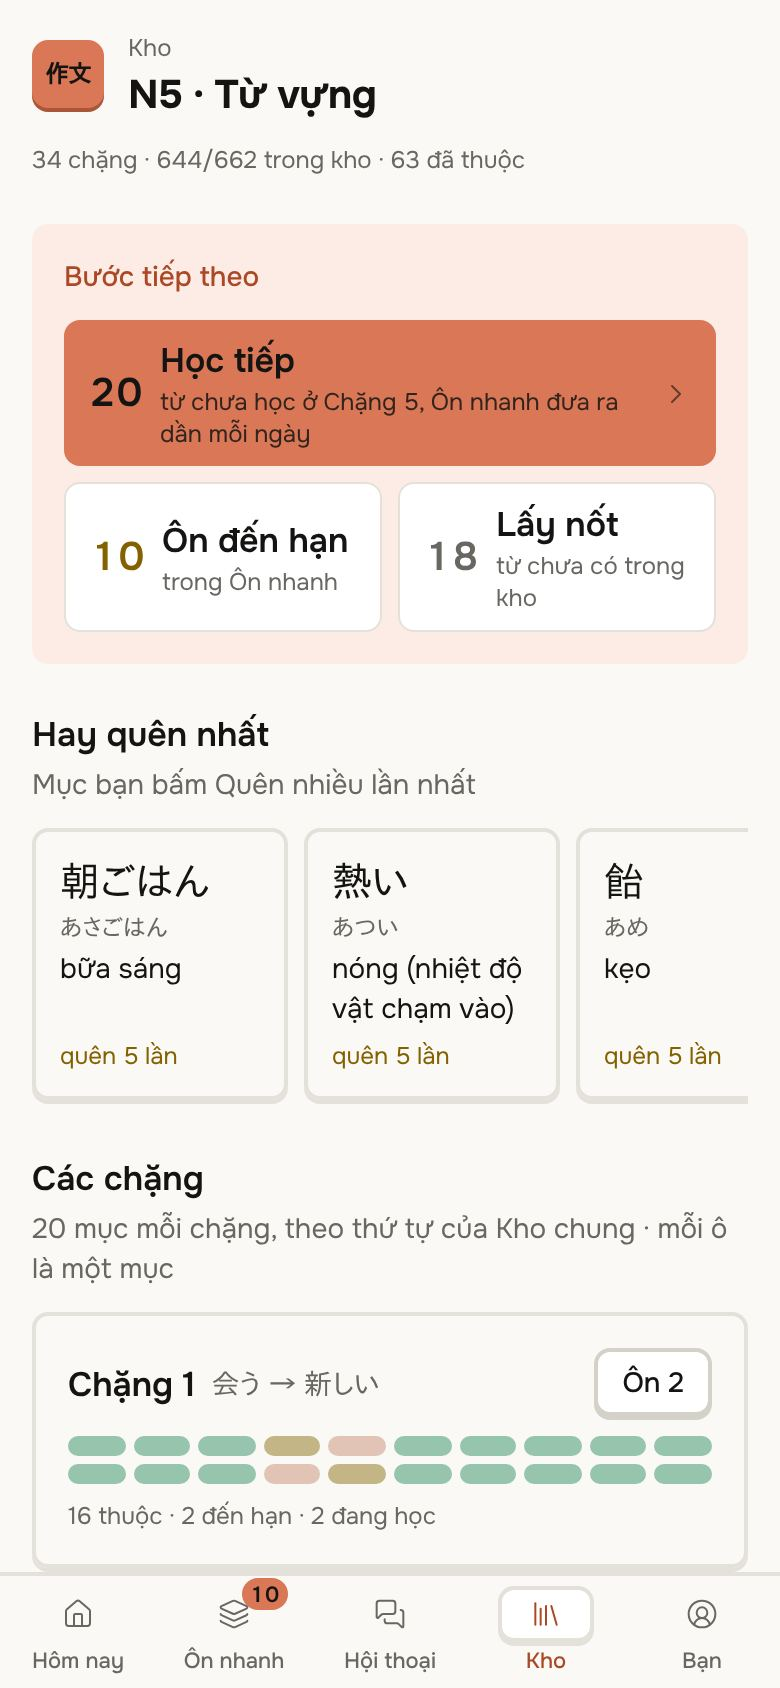
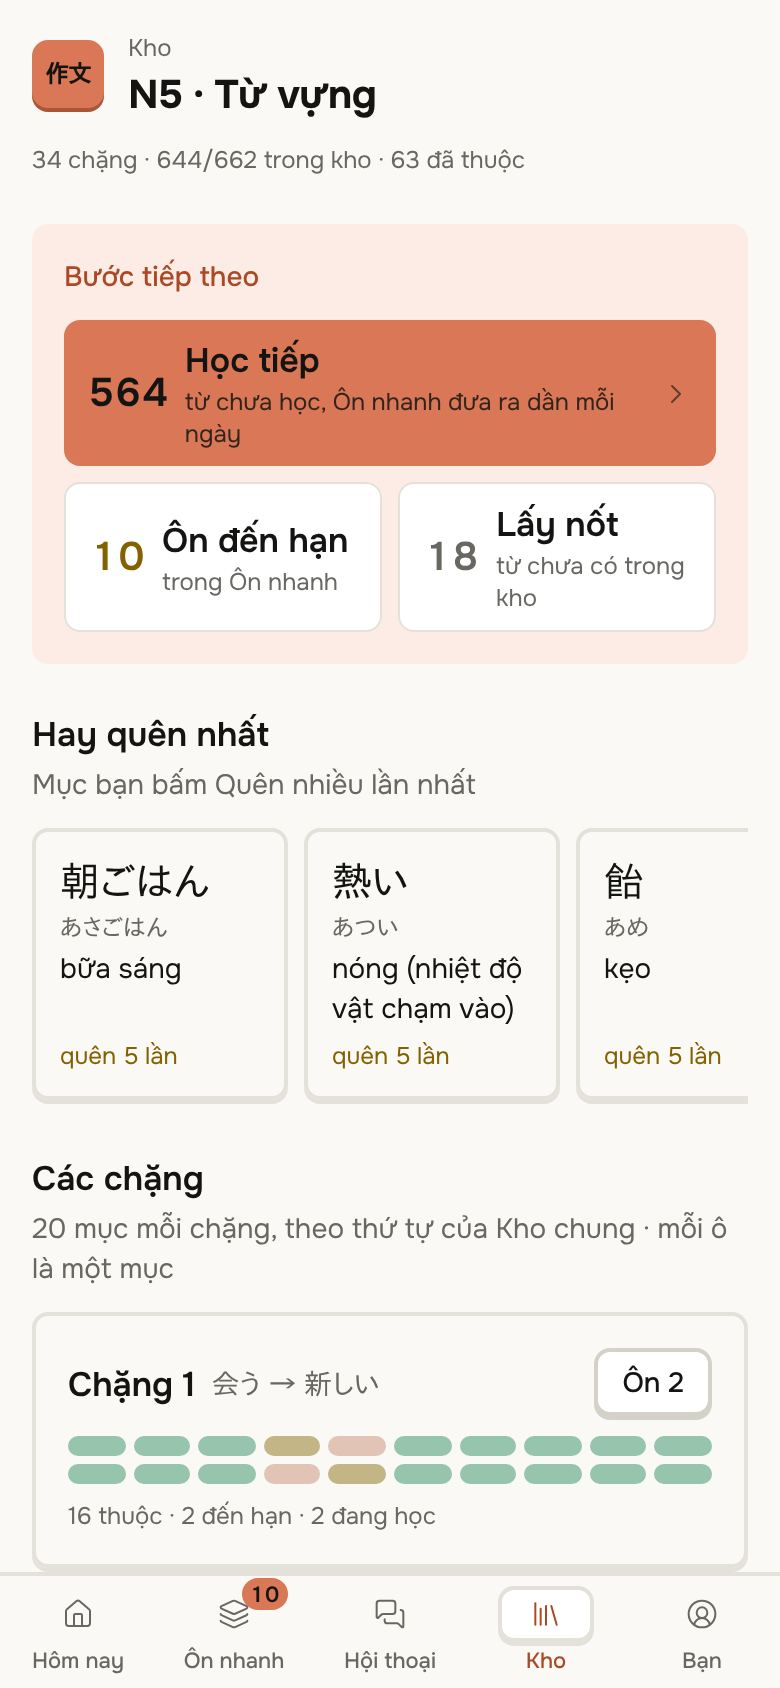
fix(u4c2): honest main action, readable set marks (CodeRabbit)
- Ôn nhanh also serves levels below the study level, in its own mixed
  order: "Học tiếp" now covers easier levels and counts the whole
  level's new words rather than one set.
- "Lấy thêm" replaces "Lấy chặng N" since Kho chung lists the whole level.
- Nothing left to start no longer reads as learnt: "Thuộc cả cấp" only
  when every word is mastered, "Đã học hết" while some are still in
  review, "Chưa có mục" for an empty level.
- Each set mark names its word and state for screen readers and hover.
- The e2e check for the lit menu link is scoped to the sidebar.

Claude-Nick: tnt628

Claude-Session: https://claude.ai/code/session_01LiS5XqjsttK1frQK4s6NyV

Changed region(s): [[0.1231, 0.1848, 0.8, 0.2773]]

diff --git a/lib/library/level-screen.ts b/lib/library/level-screen.ts
@@ -1,10 +1,12 @@
 import type { LevelSet, LevelSets, StateCounts } from '@/lib/library/level-sets';
 import { libraryLevelHref, type BoardLevel } from '@/lib/library/level-tally';
+import { JLPT_LEVELS } from '@/lib/settings/schema';
 
 // What the level screen offers (U4c2, docs/plans/2026-11-14-u4-kho.md): the three actions of
 // "Bước tiếp theo" and each set's button. Pure. New items reach the learner only through Ôn nhanh,
-// which takes them from the level set in Cài đặt, a few a day (lib/app/queue.ts); so "Học" on
-// another level sends the learner to that setting rather than promising what Ôn nhanh won't do.
+// which takes them from the level set in Cài đặt and the levels below it, a few a day
+// (lib/app/queue.ts); so "Học" on a harder level sends the learner to that setting rather than
+// promising what Ôn nhanh won't do.
 
 export type LevelKind = 'grammar' | 'vocab';
 
@@ -56,18 +58,27 @@ export function leadActions(sets: LevelSets, ctx: LevelContext): LeadActions {
   };
 }
 
+// Ôn nhanh takes new items from the study level and, now and then, from the levels below it, in its
+// own mixed order (lib/domain/new-items.ts): so "Học" counts the whole level, never one set.
+function servedByReview(level: string, studyLevel: string): boolean {
+  const at = (l: string) => JLPT_LEVELS.indexOf(l as (typeof JLPT_LEVELS)[number]);
+  return at(level) >= 0 && at(studyLevel) >= 0 && at(level) <= at(studyLevel);
+}
+
 function mainAction(
-  { counts, next }: LevelSets,
+  { sets, counts, mastered, next }: LevelSets,
   ctx: LevelContext,
   unit: string,
   take: string,
 ): LevelAction {
-  if (next?.kind === 'study' && ctx.studyLevel === ctx.level) {
+  if (next?.kind === 'study' && servedByReview(ctx.level, ctx.studyLevel)) {
     return {
       label: 'Học tiếp',
-      // The set's own count, not the level's: the number reads with "Chặng N" beside it.
-      hint: `${unit} chưa học ở Chặng ${next.set}, Ôn nhanh đưa ra dần mỗi ngày`,
-      count: next.count,
+      hint:
+        ctx.level === ctx.studyLevel
+          ? `${unit} chưa học, Ôn nhanh đưa ra dần mỗi ngày`
+          : `${unit} chưa học, Ôn nhanh xen dần vào khi bạn học ${ctx.studyLevel}`,
+      count: counts.new,
       href: REVIEW_HREF,
     };
   }
@@ -80,16 +91,32 @@ function mainAction(
     };
   }
   if (next?.kind === 'take') {
+    // Kho chung lists the whole level; it cannot open on one set.
     return {
-      label: `Lấy chặng ${next.set}`,
-      hint: `${next.count} ${unit} chưa có trong kho`,
-      count: next.count,
+      label: 'Lấy thêm',
+      hint: `${unit} chưa có trong kho, từ Chặng ${next.set}`,
+      count: counts.none,
       href: take,
     };
   }
+  const total = sets.reduce((n, s) => n + s.words.length, 0);
+  if (total === 0)
+    return {
+      label: 'Chưa có mục',
+      hint: 'Kho chung chưa có mục nào ở cấp này',
+      count: null,
+      href: null,
+    };
+  if (mastered === total)
+    return {
+      label: 'Thuộc cả cấp',
+      hint: `Bạn đã thuộc mọi ${unit} của cấp này`,
+      count: null,
+      href: null,
+    };
   return {
-    label: 'Đủ cả cấp',
-    hint: `Bạn đã lấy và học mọi ${unit} của cấp này`,
+    label: 'Đã học hết',
+    hint: `Còn ${total - mastered} ${unit} đang ôn, Ôn nhanh nhắc khi đến hạn`,
     count: null,
     href: null,
   };
@@ -114,6 +141,16 @@ export function setAction(
     return { label: 'Thuộc hết', hint: '', count: null, href: null };
   return null;
 }
+
+/** What each mark of a set means, read by screen readers and on hover. */
+export const STATE_LABEL: Record<keyof StateCounts, string> = {
+  mastered: 'đã thuộc',
+  due: 'đến hạn',
+  learning: 'đang học',
+  new: 'chưa học',
+  none: 'chưa có trong kho',
+  paused: 'tạm ngưng',
+};
 
 const SUMMARY: [keyof StateCounts, string][] = [
   ['mastered', 'thuộc'],

diff --git a/lib/library/level-screen.test.ts b/lib/library/level-screen.test.ts
@@ -33,7 +33,7 @@ describe('leadActions', () => {
     );
     const lead = leadActions(sets, N5_VOCAB);
     expect(lead.main).toMatchObject({ label: 'Học tiếp', count: 2, href: '/review' });
-    expect(lead.main.hint).toContain('từ chưa học ở Chặng 2');
+    expect(lead.main.hint).toContain('từ chưa học, Ôn nhanh đưa ra dần');
     expect(lead.due).toMatchObject({ count: 1, href: '/review' });
     expect(lead.take).toMatchObject({
       count: 22,
@@ -41,11 +41,17 @@ describe('leadActions', () => {
     });
   });
 
-  it("counts the next set's new words, not the whole level's", () => {
+  it("counts the whole level's new words: Ôn nhanh does not follow the sets", () => {
     const fresh = ['w3', 'w4', 'w22'].map((e) => item(e, { state: 0 }));
     const lead = leadActions(levelSets(entries(25), fresh, NOW), N5_VOCAB);
-    expect(lead.main).toMatchObject({ label: 'Học tiếp', count: 2 });
-    expect(lead.main.hint).toContain('Chặng 1');
+    expect(lead.main).toMatchObject({ label: 'Học tiếp', count: 3 });
+  });
+
+  it('sends an easier level to Ôn nhanh too, which mixes it in', () => {
+    const sets = levelSets(entries(3), [item('w1', { state: 0 })], NOW);
+    const lead = leadActions(sets, { level: 'N5', kind: 'vocab', studyLevel: 'N4' });
+    expect(lead.main).toMatchObject({ label: 'Học tiếp', href: '/review' });
+    expect(lead.main.hint).toContain('khi bạn học N4');
   });
 
   it('points to Cài đặt when Ôn nhanh takes new items from another level', () => {
@@ -61,15 +67,30 @@ describe('leadActions', () => {
       entries(22).map((e) => item(e.expression)),
       NOW,
     );
-    expect(leadActions(sets, N5_VOCAB).main).toMatchObject({ label: 'Lấy chặng 2', count: 8 });
+    const main = leadActions(sets, N5_VOCAB).main;
+    expect(main).toMatchObject({ label: 'Lấy thêm', count: 8 });
+    expect(main.hint).toContain('từ Chặng 2');
   });
 
   it('has nothing to do on a level taken and studied in full', () => {
     const sets = levelSets(entries(2), [item('w1'), item('w2')], NOW);
     const lead = leadActions(sets, N5_VOCAB);
-    expect(lead.main).toMatchObject({ label: 'Đủ cả cấp', href: null });
+    expect(lead.main).toMatchObject({ label: 'Thuộc cả cấp', href: null });
     expect(lead.due.href).toBeNull();
     expect(lead.take).toMatchObject({ count: 0, href: null, hint: 'đã có đủ cả cấp' });
+  });
+});
+
+describe('leadActions with nothing left to start', () => {
+  it('does not call a level learnt while words are still being learnt', () => {
+    const sets = levelSets(entries(2), [item('w1'), item('w2', { state: 1 })], NOW);
+    expect(leadActions(sets, N5_VOCAB).main).toMatchObject({ label: 'Đã học hết', href: null });
+    expect(leadActions(sets, N5_VOCAB).main.hint).toContain('Còn 1 từ đang ôn');
+  });
+
+  it('says so when Kho chung has nothing at the level', () => {
+    const sets = levelSets([], [], NOW);
+    expect(leadActions(sets, N5_VOCAB).main).toMatchObject({ label: 'Chưa có mục', href: null });
   });
 });
 

diff --git a/components/features/resources/level-sets-view.tsx b/components/features/resources/level-sets-view.tsx
@@ -10,6 +10,7 @@ import {
   leadActions,
   setAction,
   setSummary,
+  STATE_LABEL,
   type LevelAction,
   type LevelContext,
 } from '@/lib/library/level-screen';
@@ -220,11 +221,22 @@ function SetCard({ set, ctx }: { set: LevelSet; ctx: LevelContext }) {
             </span>
           ))}
       </div>
-      <div className="grid grid-cols-10 gap-1" aria-hidden>
-        {set.words.map((w) => (
-          <span key={w.entry.expression} className={cn('h-2.5 rounded-sm', MARK[w.state])} />
-        ))}
-      </div>
+      {/* Each mark names its word and state for screen readers and on hover; the set screen
+          (U4c3) shows every word with its meaning. */}
+      <ul className="grid grid-cols-10 gap-1" aria-label={`Từng mục của chặng ${set.number}`}>
+        {set.words.map((w) => {
+          const name = `${w.entry.expression}: ${STATE_LABEL[w.state]}`;
+          return (
+            <li
+              key={w.entry.expression}
+              title={name}
+              className={cn('h-2.5 rounded-sm', MARK[w.state])}
+            >
+              <span className="sr-only">{name}</span>
+            </li>
+          );
+        })}
+      </ul>
       <p className="text-xs text-muted-foreground">{setSummary(set.counts)}</p>
     </li>
   );

diff --git a/e2e/kho-board.spec.ts b/e2e/kho-board.spec.ts
@@ -40,10 +40,10 @@ test('Kho is the level board, from N5 to N1 and outside JLPT', async ({ page }) 
   await n4.getByRole('link', { name: /Từ vựng/ }).click();
   await page.waitForURL(/\/resources\/level\/N4\/vocab$/);
   await expect(page.getByRole('heading', { level: 1, name: 'N4 · Từ vựng' })).toBeVisible();
-  // The breadcrumb now has a "Kho" link too; the menu's is the one marked as the current page.
+  // Scoped to the sidebar: the breadcrumb has a "Kho" link too.
   await expect(
-    nav.getByRole('link', { name: 'Kho', exact: true }).and(nav.locator('[aria-current="page"]')),
-  ).toHaveCount(1);
+    page.locator('[data-sidebar="sidebar"]').getByRole('link', { name: 'Kho', exact: true }),
+  ).toHaveAttribute('aria-current', 'page');
 });
 
 test('an old link to a tab lands on the list of every item', async ({ page }) => {
